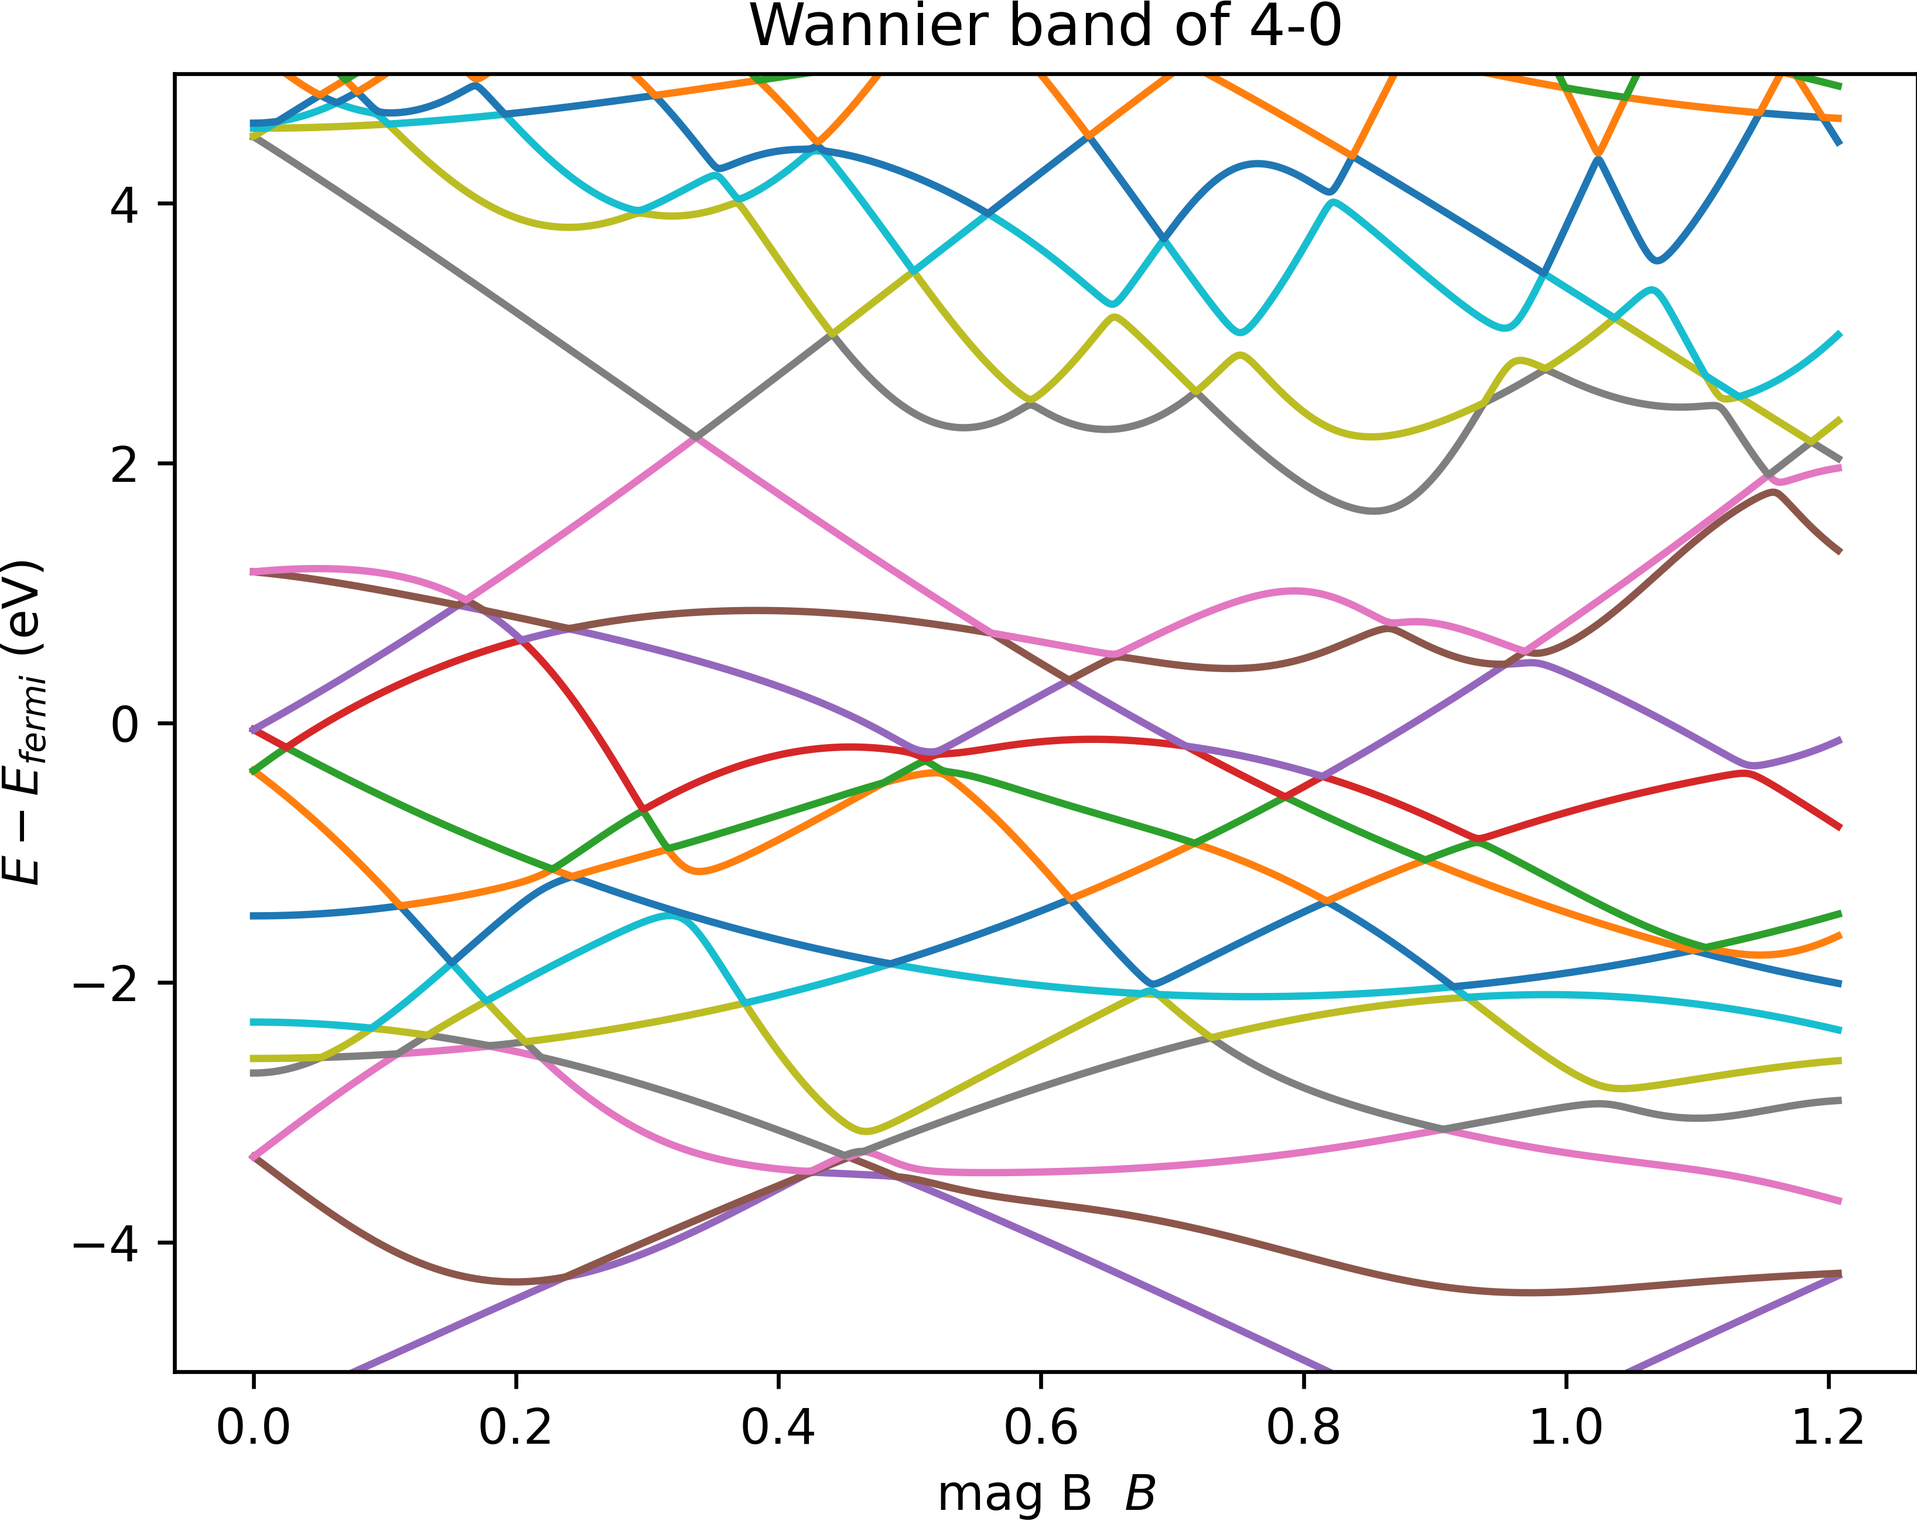
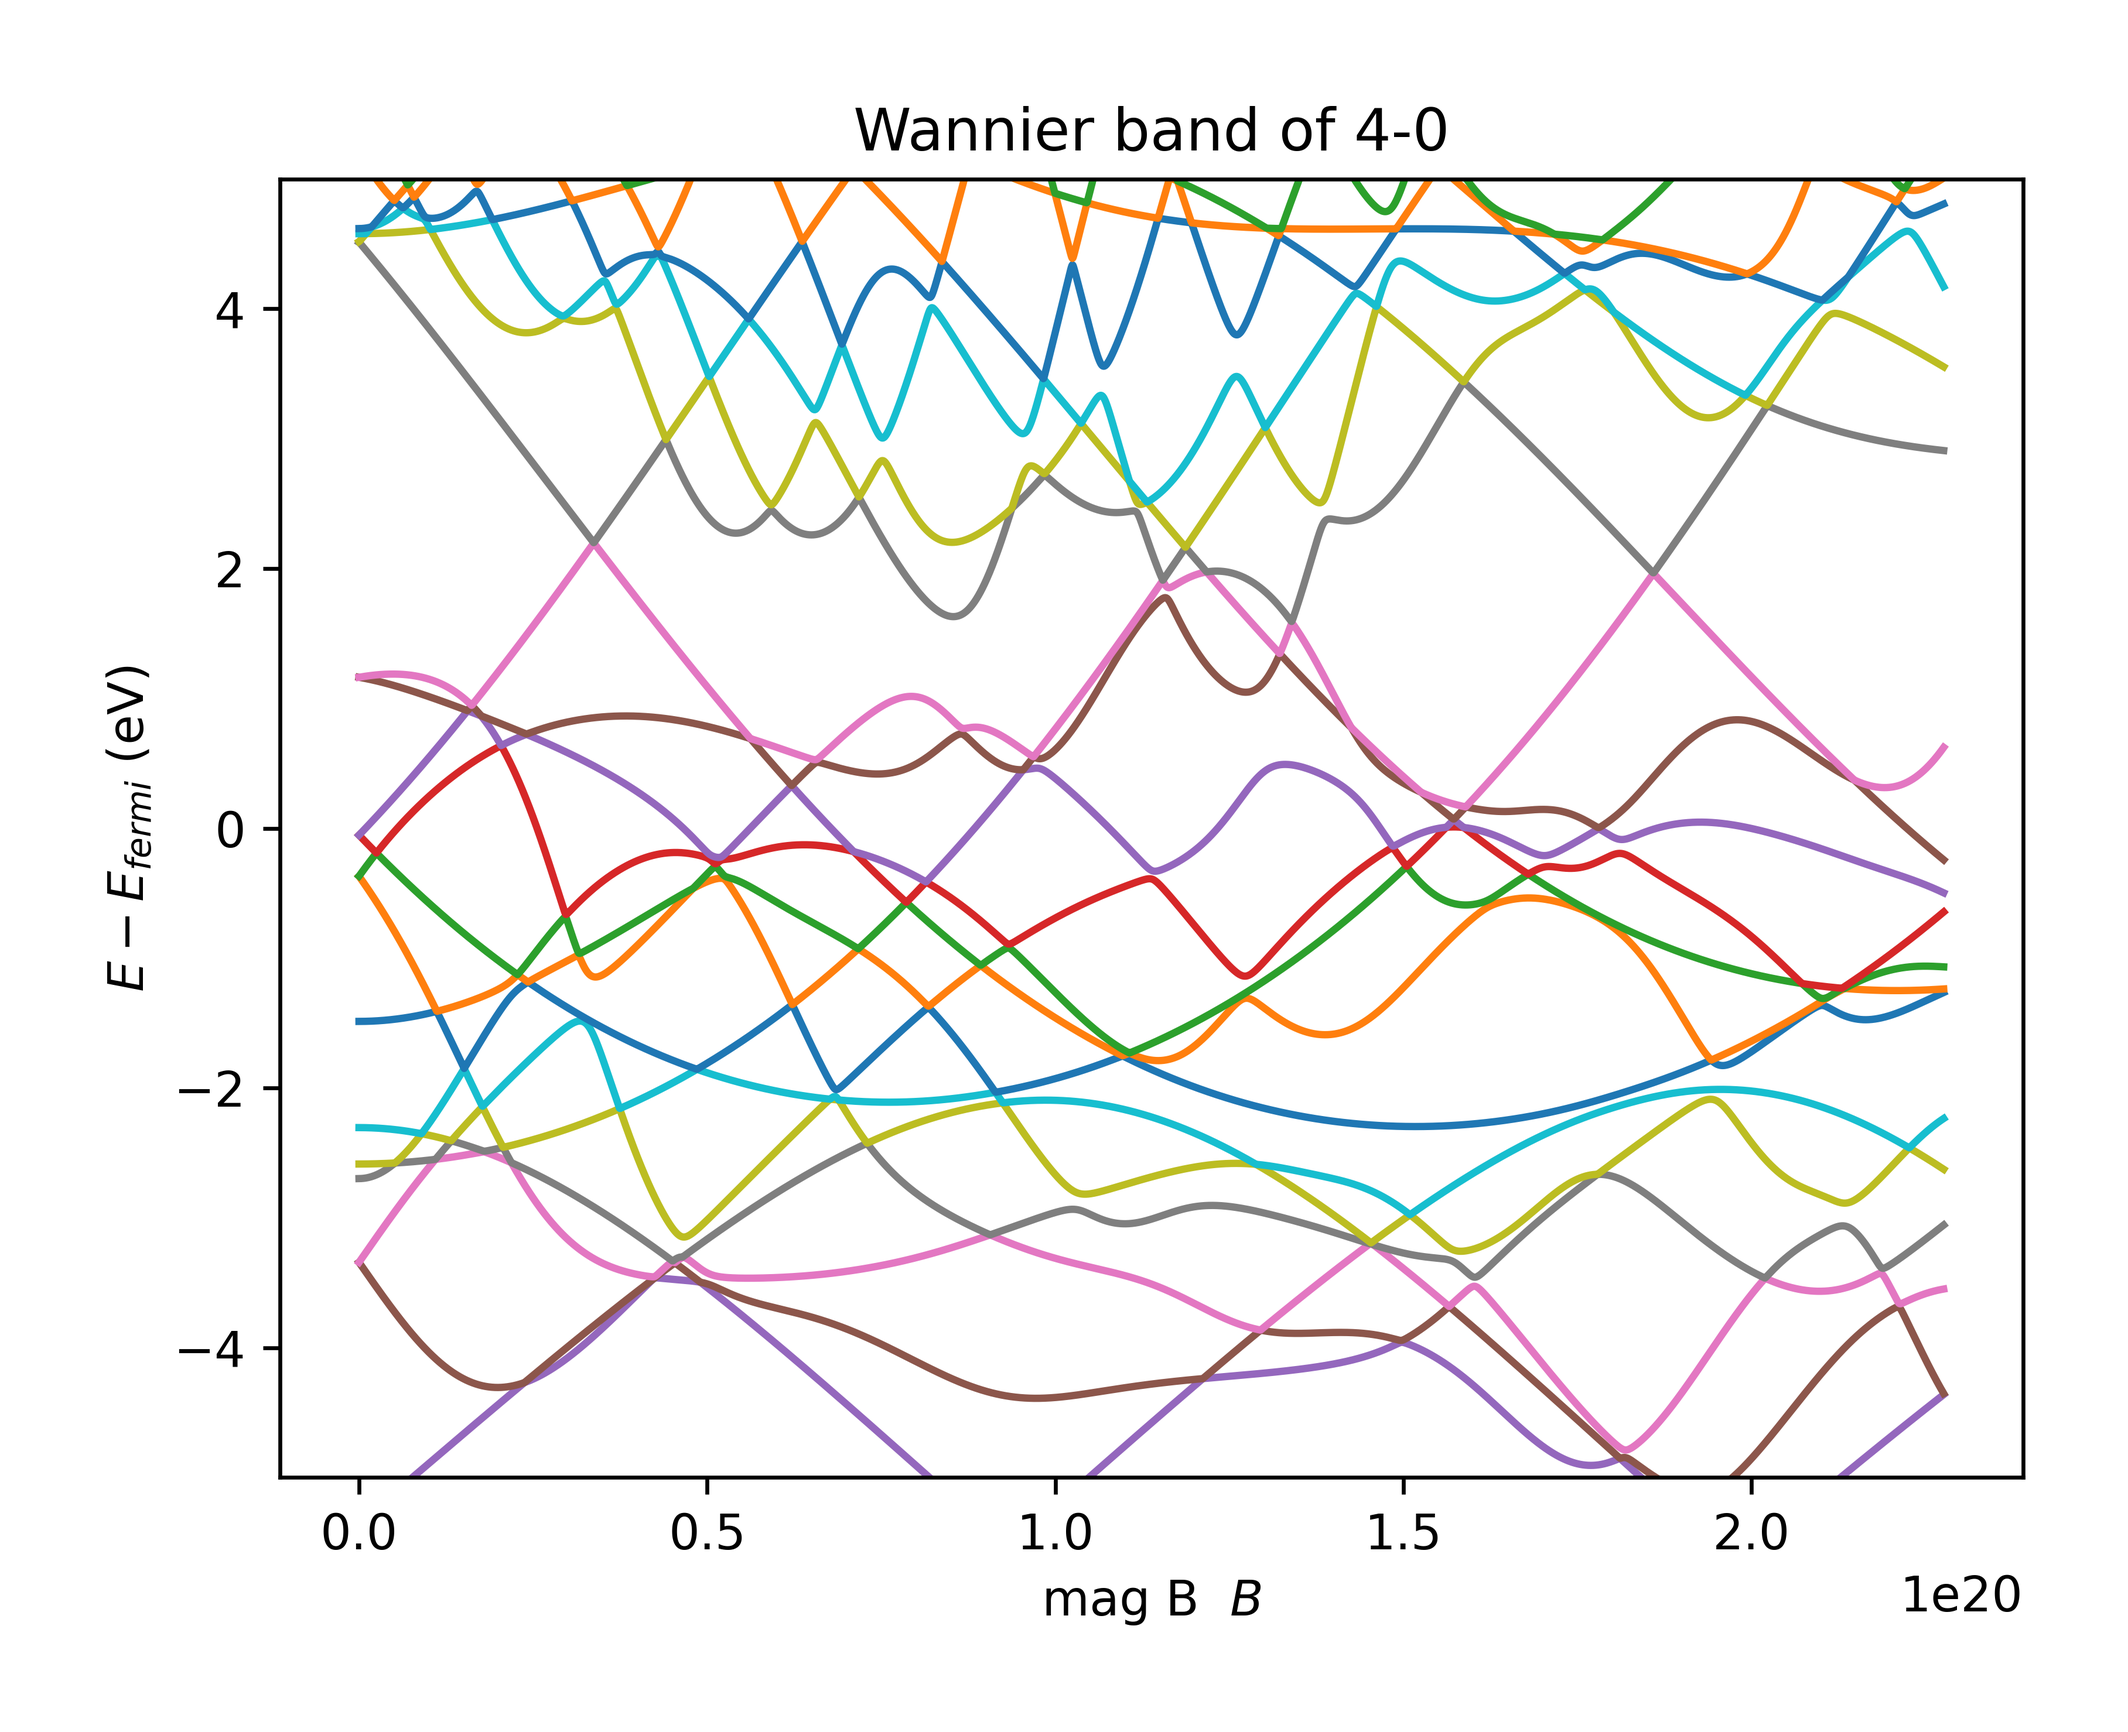
review the code

diff --git a/example-3-3/CNT_fixk_new.py b/example-3-3/CNT_fixk_new.py
@@ -84,23 +84,23 @@ class WannierBand():
         '''
 
     def matrix_element(self):
-        rhplanck = 1.054571817E-34 # reduced Planck constant
+        hplank = 6.62607015E-34 # Planck constant
         e = 1.6E-19
         
         ###
-        self.B = np.array(np.linspace(0, 15E4, 3000),dtype=np.float64) / (rhplanck / e)  # 磁场强度，单位特斯拉
+        self.B = np.array(np.linspace(0, 5E-14, 3000),dtype=np.float64) / (hplank / e)  # 磁场强度
         ###
         #               k路径撒点数量      实空间矩阵数   wannier基数   wannier基数
         h = np.zeros((self.n * self.kn, self.nrpts, self.num_wan, self.num_wan), dtype=np.complex128)
         R = np.zeros((self.n * self.kn, self.nrpts, 1, 1, 3), dtype=np.float32) 
-        Degen = np.zeros((self.n * self.kn, self.nrpts, 1, 1), dtype=np.int8) # 简并程度
+        Degen = np.zeros((self.n * self.kn, self.nrpts, 1, 1), dtype=np.uint8) # 简并程度
         wan_centre = np.zeros((self.n * self.kn, self.nrpts, self.num_wan, self.num_wan, 3), dtype=np.float32)
         S = np.zeros((len(self.B), self.num_wan, self.num_wan), dtype=np.float32)
         # 读取the degeneracy of each Wigner-Seitz grid point
         print(self.nrpts)
 
         # mod 15 是因为记录wannier90_hr.dat中的第四行开始的记录简并度的行，一行最多有15个数字
-        for ir in range(3, 4 + (self.nrpts - 1) // 15):   # ir 判断了写简并度的行数有几行
+        for ir in range(3, 4 + (self.nrpts - 1) // 15):
             if ir != 3 + (self.nrpts - 1) // 15:
                 for jr in range(15):
                     Degen[:, (ir - 3) * 15 + jr, :] = self.lines[ir].split()[jr]
@@ -115,45 +115,30 @@ class WannierBand():
                 for j in range(self.num_wan):
                     R1 = np.array(list(map(float, lines[i + 2].strip().split()[1:4])))
                     R2 = np.array(list(map(float, lines[j + 2].strip().split()[1:4])))
-                    wan_centre[..., i, j, :] = (R1 - R2) # 把一个三维矢量，赋给了一个三阶张量
-                    #temp=wan_centre[..., i, j, :]
-                    #print(wan_centre.shape)
-                    #print(wan_centre[..., i, j, :].shape)
-                    #print(wan_centre[21,5, 0, 1, :])
+                    wan_centre[..., i, j, :] = (R1 - R2)
                     R1[-1] = 0.0
                     R2[-1] = 0.0
                     temp_S = np.cross(R1, R2)
                     sgn=np.sign(temp_S[-1])
-                    S[:, i, j] = sgn * np.linalg.norm(temp_S)*1E-20 / 2 # use meters as unit, adjust for the sign problem
-                    #print(S[0,i,j])
-                    #print(S[3,i,j])
+                    S[:, i, j] = sgn * np.linalg.norm(temp_S) / 2# adjust for the sign problem
         
-        
-        # x 用于判断wannier90_hr.dat中第几行开始有矩阵元
         if self.nrpts % 15 == 0:
             x = self.nrpts // 15 + 3
         else:
             x = self.nrpts // 15 + 4
-        
-        # h 为实空间的哈密顿量矩阵
         for i in range(x, len(self.lines)):
             h[:, int(np.floor((i - x) / self.num_wan ** 2)), int(self.lines[i].split()[3]) - 1,
             int(self.lines[i].split()[4]) - 1] = \
                 float(self.lines[i].split()[5]) + 1j * float(self.lines[i].split()[6])
-
-        # 每个实空间矩阵的对应的晶格矢量    
         for m in range(self.nrpts):
             R[:, m, ...] = float(self.lines[x + m * (self.num_wan ** 2)].split()[0]) * np.array(self.lv[0]) + float(
                 self.lines[x + m * (self.num_wan ** 2)].split()[1]) * np.array(self.lv[1]) + float(
                 self.lines[x + m * (self.num_wan ** 2)].split()[2]) * np.array(self.lv[2])
-        
         H = (np.exp(1j * (R[None, -1, ...] * self.k[None, -1, None, None, None, :]).sum(axis=-1)) * (np.exp(
             1j * (wan_centre[None, -1, ...] * self.k[None, -1, None, None, None, :]).sum(axis=-1)) * (np.exp(
             1j * S[:, None, None, ...] * self.B[:, None, None, None, None])) * h[None, -1, ...]) / Degen[
-                 None, -1, ...]).sum(axis=1)
-        print('A',H.shape)
+                 None, -1, ...]).sum(axis=2)
         H = H.sum(axis=1)
-        print(H.shape)
         self.H = H
 
     def plot(self):
